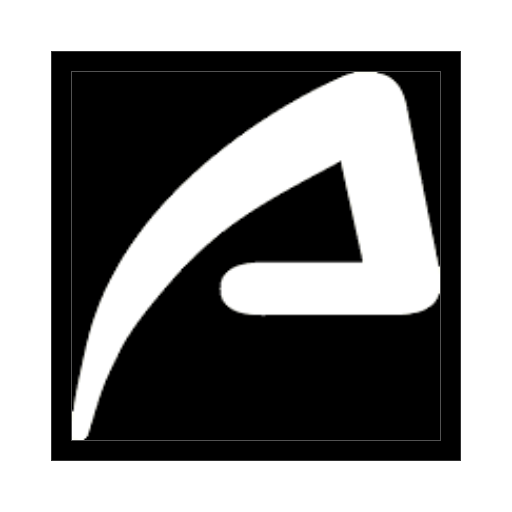
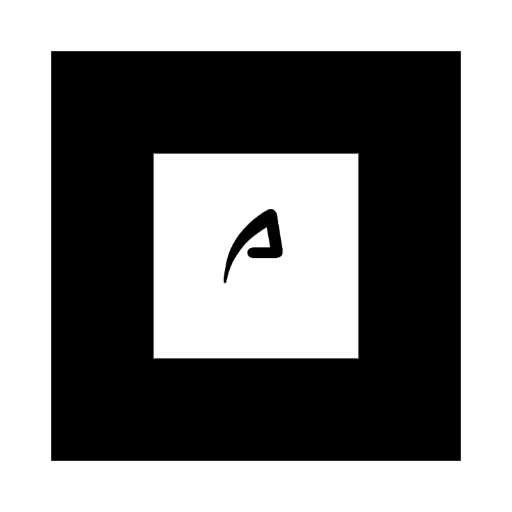
new marker

Changed region(s): [[0.125, 0.125, 0.875, 0.875]]

diff --git a/ar.html b/ar.html
@@ -94,7 +94,7 @@ function initialize()
 	// create atToolkitContext
 	arToolkitContext = new THREEx.ArToolkitContext({
 		cameraParametersUrl: 'data/ar/camera_para.dat',
-		detectionMode: 'color_and_matrix'
+		detectionMode: 'mono'
 	});
 	
 	// copy projection matrix to camera when initialization complete
